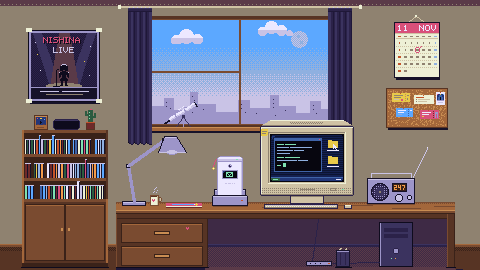
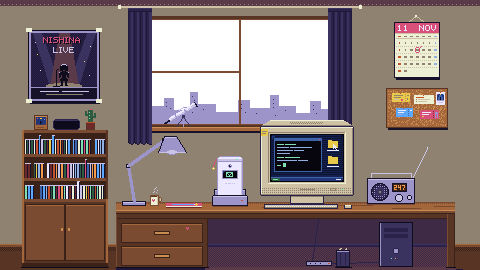
feat(home): 窗外的天空照東京灣直播抄, 太陽高度一格換一套; 凌晨 2:47 是原本那片夜空
- 天空自己一層 (/img/room/sky/), 房間的窗跟窗外都是從透明的玻璃那塊看出去; 房間本身還是白天 / 傍晚 / 晚上三套
- 天色抄東京灣的直播: 天亮用 11/03 (粉紅色), 白天、傍晚、前半夜用 10/31 (晴天), 後半夜用 11/03 凌晨
- 照太陽高度分: -12° ~ 12° 每 1° 一套, 再上去每 4° 一套, 早上跟下午分開, 一共 77 套; 天空另外加了 40 色
- 天空一層層平塗, 交界打一兩列整齊的網點; 白天跟太陽低的時候有雲, 晚上只看得到最亮的幾顆星, 月亮一直都在
- 凌晨 2:47 那一分鐘是原本那張夜空, 前後一小時每 10 分鐘一格慢慢接回去

Changed region(s): [[0.3125, 0.0593, 0.6875, 0.4148]]

diff --git a/public/js/room.js b/public/js/room.js
@@ -6,7 +6,8 @@
  * 手機 = 把網頁版 N247i 拿起來 (疊一層, 闔上就放回去); 電腦 = 指令列; しっぽ 點了會晃; 檯燈可以開關。
  * 海報 = 今日の一曲的封面 (跟 N247i 待受同一首), 用房間的色盤重畫; 月曆每天自己翻到今天, 圈下一場;
  * 書櫃上的鬧鐘是現在幾點 (2:47 / 14:47 會變粉紅)。
- * 天色: 照東京現在的太陽高度換白天 / 傍晚 / 晚上的房間 (第一張是 RoomScene 開頭那段 script 決定的, 這裡每 15 秒再看一次);
+ * 天色: 照東京現在的太陽高度換白天 / 傍晚 / 晚上的房間, 窗外的天空 (照東京灣直播抄的) 太陽高度一格換一套;
+ * 凌晨 2:47 那一分鐘是原本那片夜空。第一張是 RoomScene 開頭那段 script 決定的, 這裡每 15 秒再看一次。
  * 白天的海報、月曆、鬧鐘跟著房間亮一階, 流星只有晚上才有。
  * 開場: 站在一樓的屋頂上, 二樓我房間的窗開著一條縫, 今天那首歌的歌詞從縫裡飄出來 (晚上飄過屋簷會變成一顆星);
  * 把外面那扇窗往右拉開 (拖、點、Enter), 拉到底停一下就直接切到房間裡。鏡頭不動, 沒有特效; Esc 直接進去。
@@ -16,7 +17,7 @@
   const root = document.querySelector('[data-room]');
   if (!root) return;
   const pan = root.querySelector('.rm-pan'), stage = root.querySelector('.rm-stage'), tip = root.querySelector('.rm-tip');
-  const shippo = stage.querySelector('.rm-shippo'), html = document.documentElement, sky = window.__room;
+  const shippo = stage.querySelector('.rm-shippo'), html = document.documentElement, sun = window.__room;
   const still = matchMedia('(prefers-reduced-motion: reduce)').matches;
   const W = 480, H = 270, PHONE_X = 230;
   const v = (el, k) => +el.style.getPropertyValue('--' + k);
@@ -75,17 +76,17 @@
   /* ---------- 天色、檯燈: 換之前先把那一套圖載好, 換的時候才不會閃一下 ---------- */
   const bg = stage.querySelector('.rm-bg'), lampSpot = stage.querySelector('[data-k="lamp"]');
   const WHEN = { d: ['白天', '藍天和城市'], k: ['傍晚', '傍晚的天和月亮'], n: ['夜裡', '月亮和城市'] };
-  let set = html.dataset.rmSet || 'n', lampOn = html.dataset.rmLamp !== 'off', want = { s: set, on: lampOn };
+  let set = html.dataset.rmSet || 'n', lampOn = html.dataset.rmLamp !== 'off', want = { s: set, on: lampOn, k: html.dataset.rmSky || 'a0' };
   const load = src => new Promise(ok => { const i = new Image(); i.onload = i.onerror = ok; i.src = src; });
-  const ready = (st, on) => Promise.all(Object.values(sky.urls(st, on)).map(load));
-  function go(st, on) {
-    if (st === want.s && on === want.on) return;
-    const w = want = { s: st, on };
-    ready(st, on).then(() => { if (want === w) { sky.paint(st, on); set = st; lampOn = on; dress(); } });
+  const ready = (st, on, k) => Promise.all(Object.values(sun.urls(st, on, k)).map(load));
+  function go(st, on, k) {
+    if (st === want.s && on === want.on && k === want.k) return;
+    const w = want = { s: st, on, k };
+    ready(st, on, k).then(() => { if (want === w) { sun.paint(st, on, k); set = st; lampOn = on; dress(); } });
   }
   function setLamp(on) {
     try { sessionStorage.setItem(want.s === 'd' ? 'rm-lamp-d' : 'rm-lamp-n', on ? 'on' : 'off'); } catch {}
-    go(want.s, on);
+    go(want.s, on, want.k);
   }
   // 圖以外跟著換的: 檯燈的名牌、讀螢幕用的說明、白天亮一階的海報月曆鬧鐘
   function dress() {
@@ -94,9 +95,10 @@
     const [when, out] = WHEN[set];
     bg.setAttribute('aria-label', `${when}的房間: 書桌上有${lampOn ? '亮著的' : ''}檯燈、插在充電座上的折疊手機、CRT 電腦和收音機, 窗開著, 外面是${out}`);
     paintPoster(); drawCal(); tickClock();
-    ready(set, !lampOn);   // 另一盞燈的圖先載好, 開關的時候馬上換
+    ready(set, !lampOn, want.k);   // 另一盞燈的圖先載好, 開關的時候馬上換
   }
-  setInterval(() => { const st = sky.set(); if (st !== want.s) go(st, sky.lamp(st)); }, sky.speed > 1 ? 250 : 15000);
+  // 每 15 秒看一次天色 (天亮天黑的時候天空幾分鐘就換一套)
+  setInterval(() => { const n = sun.now(); go(n.s, sun.lamp(n.s), n.k); }, sun.speed > 1 ? 250 : 15000);
 
   /* ---------- 海報、月曆 (跟 N247i 待受畫面用同一份資料) ---------- */
   const jst = () => new Date(Date.now() + 9 * 36e5);

diff --git a/public/css/room.css b/public/css/room.css
@@ -1,7 +1,7 @@
 /* room.css — 首頁的房間 (行為在 /js/room.js, 圖 /img/room/*.png)
    class 全部 rm- 開頭。房間原圖 480×270, 所有座標都用原圖像素寫, 乘上 --s (倍率) 才是螢幕上的大小。
-   用哪一張圖 (白天 / 傍晚 / 晚上, 檯燈開關) 是 RoomScene 開頭那段 script 放進 --rm-room 這些變數的, <html> 上也標了
-   data-rm-set (d / k / n) 跟 data-rm-lamp。 */
+   用哪一張圖 (白天 / 傍晚 / 晚上, 檯燈開關, 天空哪一套) 是 RoomScene 開頭那段 script 放進 --rm-room 這些變數的,
+   <html> 上也標了 data-rm-set (d / k / n)、data-rm-lamp 跟 data-rm-sky。 */
 
 .rm { position: relative; height: 100svh; min-height: 320px;   /* 首頁就只有房間, 整個畫面都是它 */
   background: #161229; overflow: hidden; }
@@ -10,6 +10,7 @@
 .rm-pan::-webkit-scrollbar { display: none; }
 .rm-stage { --s: 2; position: relative; flex: none; margin: auto; width: calc(480px * var(--s)); height: calc(270px * var(--s)); }
 .rm-bg, .rm-shippo { position: absolute; inset: 0; background: var(--rm-room, url(/img/room/room.png)) 0 0 / 100% 100% no-repeat; image-rendering: pixelated; }
+.rm-bg { background-image: var(--rm-room, url(/img/room/room.png)), var(--rm-sky, url(/img/room/sky/a0.png)); }   /* 窗的玻璃是透明的, 天空疊在後面 */
 .rm-shippo { background-image: var(--rm-shippo, url(/img/room/shippo.png)); }
 /* 畫面比房間寬或高的時候, 牆、地板、天花板一路接到畫面邊: 房間外面那一圈像素拉長 (border-image 畫在外面, 不算進捲動範圍) */
 .rm-bg { border-image: var(--rm-edge, url(/img/room/room-edge.png)) 1 / 100vmax / 100vmax stretch; }
@@ -83,7 +84,7 @@
 :root[data-rm-set="k"] .rm-out { background: #142050; }
 .rm-out-stage { position: absolute; left: 0; top: 0; width: calc(480px * var(--k, 2)); height: calc(400px * var(--k, 2)); }
 .rm-ol { position: absolute; inset: 0; width: 100%; height: 100%; background: 0 0 / 100% 100% no-repeat; image-rendering: pixelated; pointer-events: none; }
-.rm-ol-base { background-image: var(--rm-out); }       /* 屋子、窗裡的房間、裡面那扇窗 */
+.rm-ol-base { background-image: var(--rm-out), var(--rm-outsky); }   /* 屋子、窗裡的房間、裡面那扇窗; 天空在後面 */
 .rm-ol-sash { background-image: var(--rm-sash); }      /* 外面那扇, 往右拉開 */
 .rm-ol-frame { background-image: var(--rm-frame); }
 .rm-op { position: absolute; left: calc(var(--x) * 100% / 480); top: calc(var(--y) * 100% / 400);
